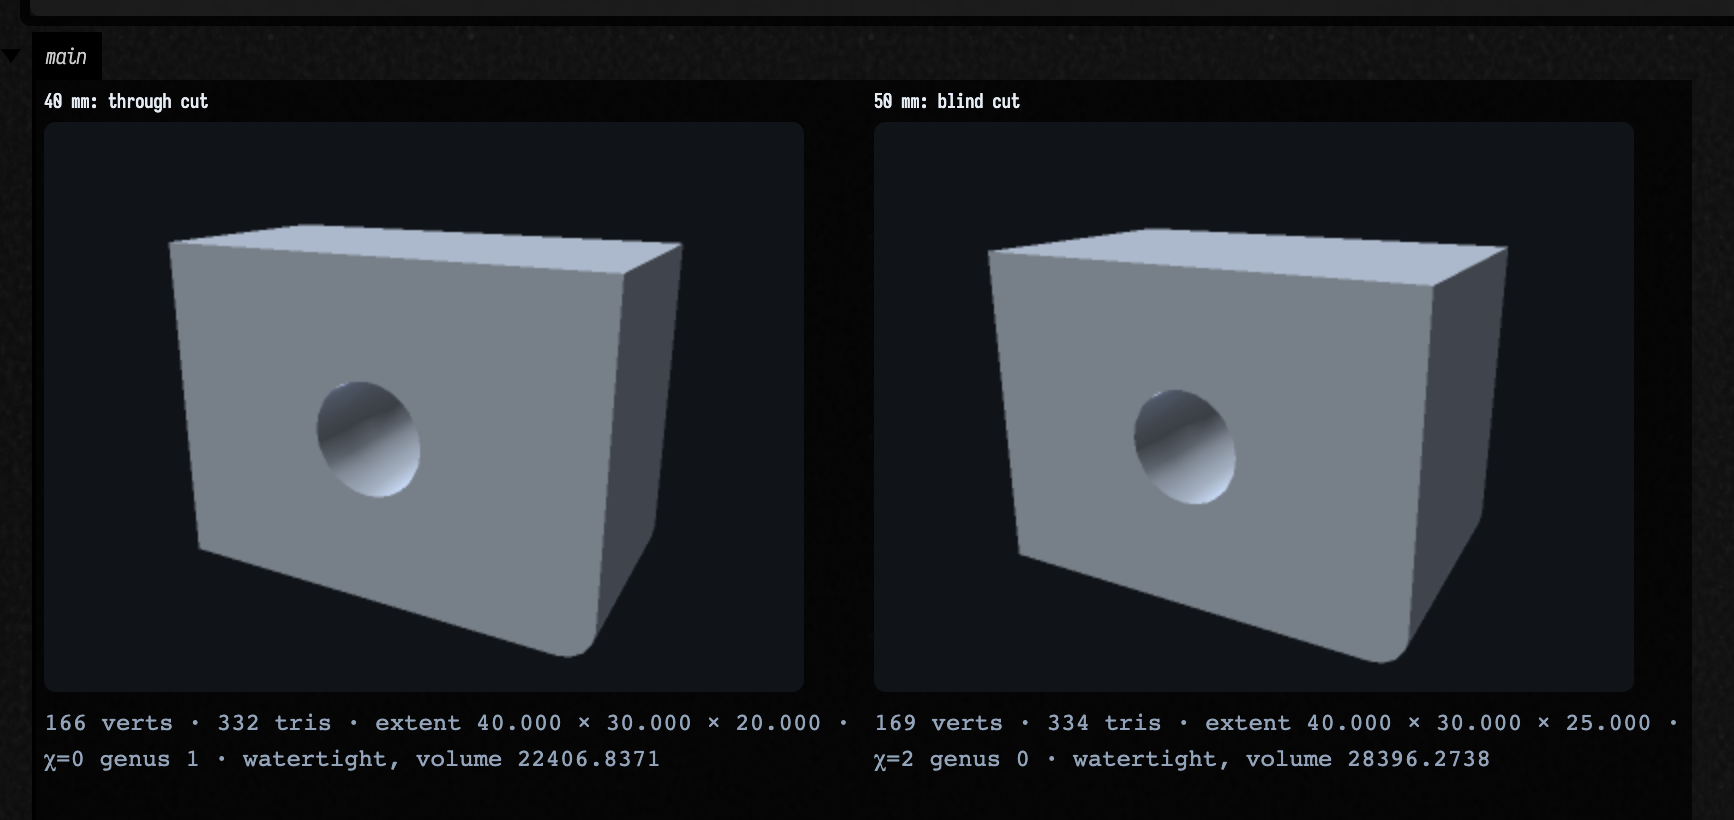
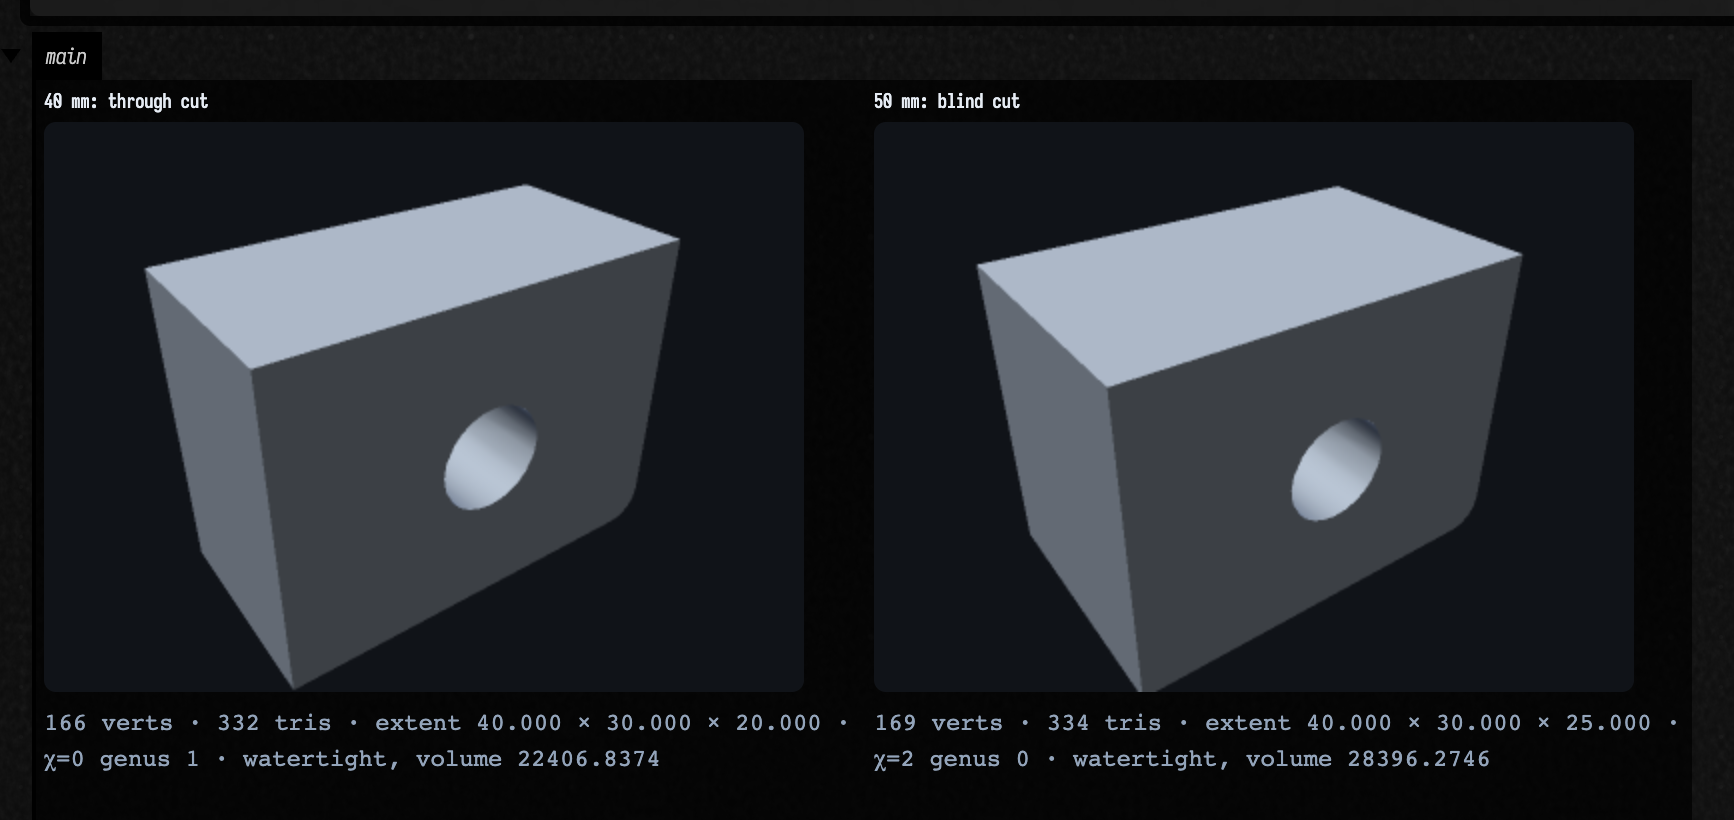
Aim SolidCraft preview camera into the cut

Changed region(s): [[0.0623, 0.2134, 0.4048, 0.8537], [0.5606, 0.2134, 0.9031, 0.8537], [0.8408, 0.9146, 0.872, 0.9451]]

diff --git a/public/docs/assets/agent_transcripts/solidcraft_intro/solidcraft_compare_code_.kt b/public/docs/assets/agent_transcripts/solidcraft_intro/solidcraft_compare_code_.kt
@@ -3,8 +3,6 @@ import afield.solidcraft.SolidCraftLibrary
 import afield.stdlib.MeshRenderer
 import afield.stdlib.MeshView
 import afield.stdlib.showMeshGrid
-import afield.stdlib.quat
-import afield.stdlib.vec
 import afield.stdlib.weld
 
 run {
@@ -22,12 +20,10 @@ run {
 
     SolidCraftDesign.openBundledExample().use { part ->
         val original = part.summary().getJSONArray("bodies").getJSONObject(0)
-        // The cut starts on the XY plane. Turn both previews to see its opening.
-        val towardCut = quat(Math.PI, vec(0, 1, 0))
-        val before = part.mesh(tolerance = tolerance).toTriMesh().weld().rotated(towardCut)
+        val before = part.mesh(tolerance = tolerance).toTriMesh().weld()
         part.setParameter("width", "$width mm")
         val changed = part.summary().getJSONArray("bodies").getJSONObject(0)
-        val after = part.mesh(tolerance = tolerance).toTriMesh().weld().rotated(towardCut)
+        val after = part.mesh(tolerance = tolerance).toTriMesh().weld()
 
         println("B-rep volume: ${"%.1f".format(original.getDouble("volume"))} → " +
             "${"%.1f".format(changed.getDouble("volume"))} mm³")
@@ -39,7 +35,8 @@ run {
             "$width mm: blind cut" to after,
             columns = 2,
             cellWidth = 380,
-            view = MeshView(wireframe = false),
+            // Look from the cut's side of the XY plane so the blind hole stays visible.
+            view = MeshView(yawDegrees = 145.0, pitchDegrees = 32.0, wireframe = false),
             renderer = MeshRenderer.CPU,
         )
     }

diff --git a/public/docs/assets/agent_transcripts/solidcraft_intro/document.md b/public/docs/assets/agent_transcripts/solidcraft_intro/document.md
@@ -11,7 +11,7 @@ This is a machine-readable narrative mirror of `metadata.edn`. The canonical sto
 <!-- field-box id="solidcraft_compare" index="0" -->
 
 ```edn [field-box id="solidcraft_compare" role="properties"]
[2 lines of base64/hex data omitted]
 ```
 
 ```kotlin [field-property box="solidcraft_compare" name="code" path="solidcraft_compare_code_.kt"]
@@ -20,8 +20,6 @@ import afield.solidcraft.SolidCraftLibrary
 import afield.stdlib.MeshRenderer
 import afield.stdlib.MeshView
 import afield.stdlib.showMeshGrid
-import afield.stdlib.quat
-import afield.stdlib.vec
 import afield.stdlib.weld
 
 run {
@@ -39,12 +37,10 @@ run {
 
     SolidCraftDesign.openBundledExample().use { part ->
         val original = part.summary().getJSONArray("bodies").getJSONObject(0)
-        // The cut starts on the XY plane. Turn both previews to see its opening.
-        val towardCut = quat(Math.PI, vec(0, 1, 0))
-        val before = part.mesh(tolerance = tolerance).toTriMesh().weld().rotated(towardCut)
+        val before = part.mesh(tolerance = tolerance).toTriMesh().weld()
         part.setParameter("width", "$width mm")
         val changed = part.summary().getJSONArray("bodies").getJSONObject(0)
-        val after = part.mesh(tolerance = tolerance).toTriMesh().weld().rotated(towardCut)
+        val after = part.mesh(tolerance = tolerance).toTriMesh().weld()
 
         println("B-rep volume: ${"%.1f".format(original.getDouble("volume"))} → " +
             "${"%.1f".format(changed.getDouble("volume"))} mm³")
@@ -56,7 +52,8 @@ run {
             "$width mm: blind cut" to after,
             columns = 2,
             cellWidth = 380,
-            view = MeshView(wireframe = false),
+            // Look from the cut's side of the XY plane so the blind hole stays visible.
+            view = MeshView(yawDegrees = 145.0, pitchDegrees = 32.0, wireframe = false),
             renderer = MeshRenderer.CPU,
         )
     }
